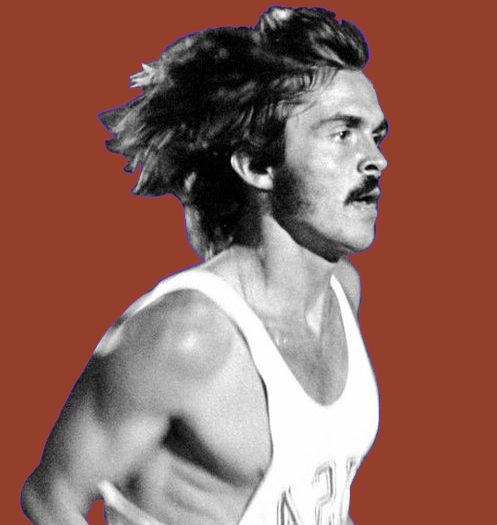
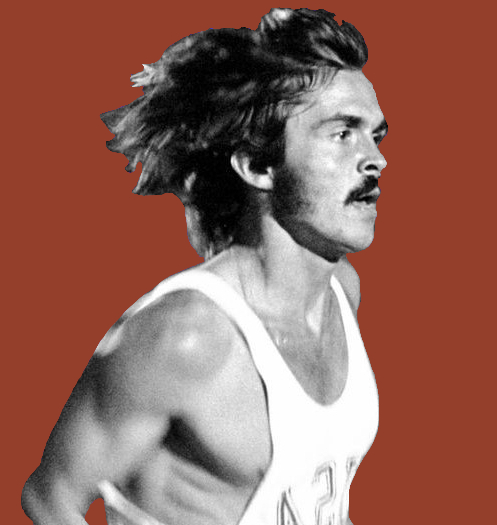
Gave Mr. Prefontaine a trim to remove the purple

diff --git a/whentobuyshoes.html b/whentobuyshoes.html
@@ -15,7 +15,9 @@
       <a href="index.html">Home</a>
     </nav>
   </div>
-  <h4>Under construction</h4>
+  <h3>This simple calculator generates an estimate lifespan of your shoes depending on the number of steps you
+    take. General consensus is to replace shoes every 300-500 miles. The calculator leans towards 500 miles, but it
+    depends on the length of your stride</h3>
 
   <form id="timeEntry" onsubmit="return false;">
     <label for="timeEntry">
@@ -25,7 +27,7 @@
     </label>
   </form>
 
-  <h3 id="stepTotal"></h3>
+  <h2 id="stepTotal"></h2>
   <br />
   <br />
 
@@ -43,7 +45,9 @@
     steps = steps.replace(/\,/g, '');
     console.log(steps);
     result = 1000000 / steps;
-    document.getElementById('stepTotal').innerHTML = result + "  days";
+    let month = Math.floor(result / 30);
+    let day = result % 30;
+    document.getElementById('stepTotal').innerHTML = month + "  months  " + day.toFixed(0) + "  days";
     console.log(steps);
   }
 

diff --git a/trackstyles.css b/trackstyles.css
@@ -13,6 +13,7 @@ html {
   padding-bottom: 2vh;
   font-family: Sans-Serif;
   text-align: center;
+  align-items: center;
   font-size: 10px;
   background-color: var(--base-color2);
   color: var(--base-color2);
@@ -41,6 +42,21 @@ h1 {
   text-decoration: underline;
   text-shadow: 5px 1px 2px var(--base-color5), 0 0 1em var(--base-color3),
     0 0 2px var(--base-color2);
+}
+
+h2 {
+  text-shadow: 5px 1px 2px var(--base-color5), 0 0 1em var(--base-color3),
+    0 0 2px var(--base-color2);
+  color: yellow;
+  outline: black;
+}
+
+h3 {
+  max-width: 60vw;
+  margin: auto;
+  padding: 0.5vw;
+  align-items: center;
+  text-align: center;
 }
 
 a {
